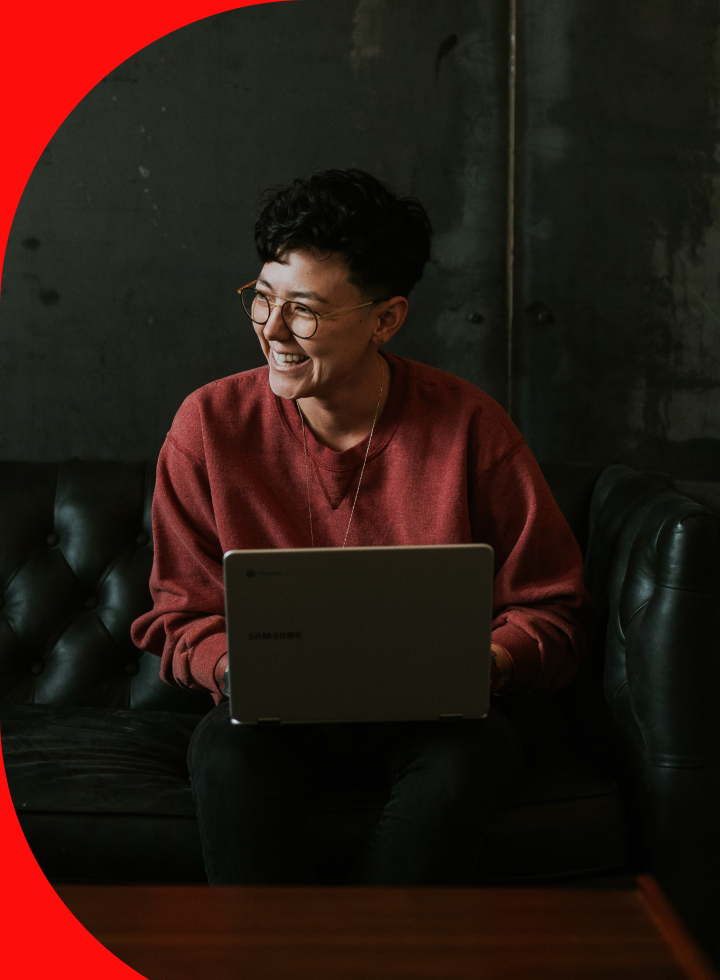
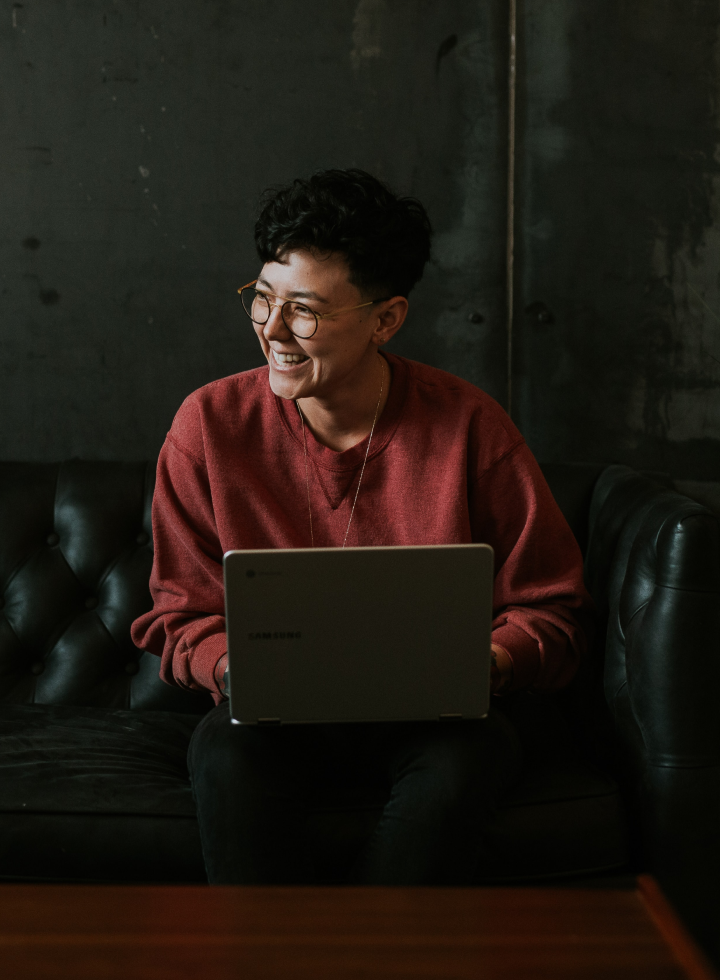
updated

Changed region(s): [[0.0, 0.0, 0.3667, 0.2755], [0.0, 0.7653, 0.2139, 1.0]]

diff --git a/index.html b/index.html
@@ -29,8 +29,8 @@
     <title>LOGIN REQUISTION APPLICATION</title>
   </head>
   <body>
-    <div class="row row-cols-2">
-      <div class="col mt-5">
+    <div class="row row-cols-2 text-center">
+      <div class="col-sm-8 mt-5">
         <img class="center" src="img/logo.png" alt="" />
         <h1>REQUISTION APPLICATION</h1>
         <h5>Sistem Permintaan Barang</h5>
@@ -58,33 +58,33 @@
           <button class="btn btn-primary no-border">Login</button>
         </div>
       </div>
-      <div class="col md">
-        <div
-          id="carouselExampleControls"
-          class="carousel slide"
-          data-ride="carousel"
-        >
-          <div class="carousel-inner">
-            <div class="carousel-item active">
-              <img
-                class="d-block float-right image-1"
-                src="img/background_login3.png"
-                alt="First slide"
-              />
-            </div>
-            <div class="carousel-item">
-              <img
-                class="d-block float-right image-1"
-                src="img/background_login2.png"
-                alt="Second slide"
-              />
-            </div>
-            <div class="carousel-item">
-              <img
-                class="d-block float-right image-1"
-                src="img/background_login3.png"
-                alt="Third slide"
-              />
+
+      <!-- Kanan -->
+      <div class="col-sm-4 md">
+        <div class="container-1">
+          <div
+            id="carouselExampleControls"
+            class="carousel slide"
+            data-ride="carousel"
+          >
+            <div class="carousel-inner container-1">
+              <div class="carousel-item active">
+                <img
+                  class="d-block float-right"
+                  src="/img/background_login2.png"
+                  alt="First slide"
+                />
+              </div>
+              <div class="carousel-item">
+                <img
+                  class="d-block float-right"
+                  src="/img/background_login3.png"
+                  alt="Second slide"
+                />
+              </div>
+              <div class="carousel-item">
+                <img class="d-block float-right" src="/img/background_login1.png" alt="Third slide" />
+              </div>
             </div>
           </div>
         </div>

diff --git a/css/login.css b/css/login.css
@@ -15,13 +15,6 @@ body {
   margin-right: auto;
 }
 
-.image-1 {
-  height: 100%;
-  align-items: center;
-  justify-content: center;
-  text-align: center;
-}
-
 h1 {
   margin-top: 30px;
   text-align: center;
@@ -49,8 +42,19 @@ h5 {
   width: 114px;
 }
 
+.container-1 {
+  width: 100%;
+  height: 900px;
+  background-color: #fff;
+  border-radius: 100px 0px 0px 100px;
+}
+
 @media only screen and (max-width: 600px) {
   .none {
     display: none;
+  }
+
+  .text-center {
+    align-items: center;
   }
 }

diff --git a/css/style.css b/css/style.css
@@ -94,6 +94,10 @@ h5 {
   background: #ffb800;
 }
 
+.margin-footer {
+  margin-left: 20px;
+}
+
 @media only screen and (max-width: 600px) {
   .col-sm {
     align-items: center;
@@ -101,5 +105,10 @@ h5 {
   }
   .logout {
     float: left;
+  }
+  .margin-footer {
+    margin-left: -px;
+    text-align: center;
+    color: black;
   }
 }

diff --git a/dashboard.html b/dashboard.html
@@ -189,7 +189,7 @@
       <!-- Container -->
     </div>
     <footer>
-      <p class="mt-4 ms-4 white">
+      <p class="mt-4 margin-footer white">
         PT. Sumber Alfaria Trijaya, Copyright 2022 All Rights Reserved
       </p>
     </footer>
